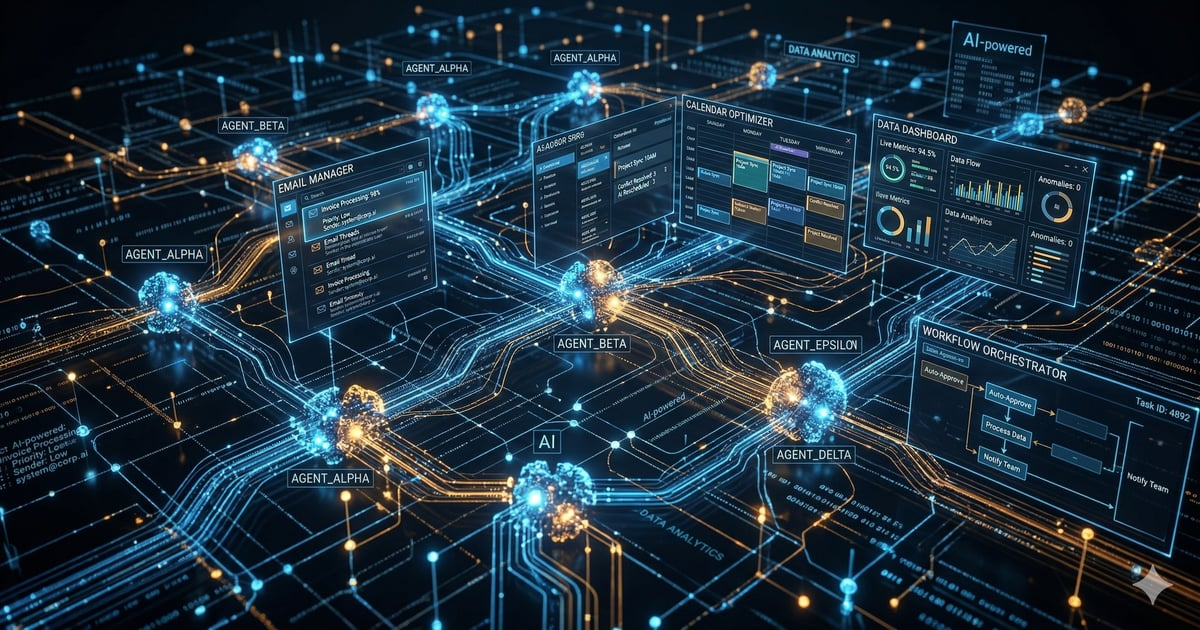
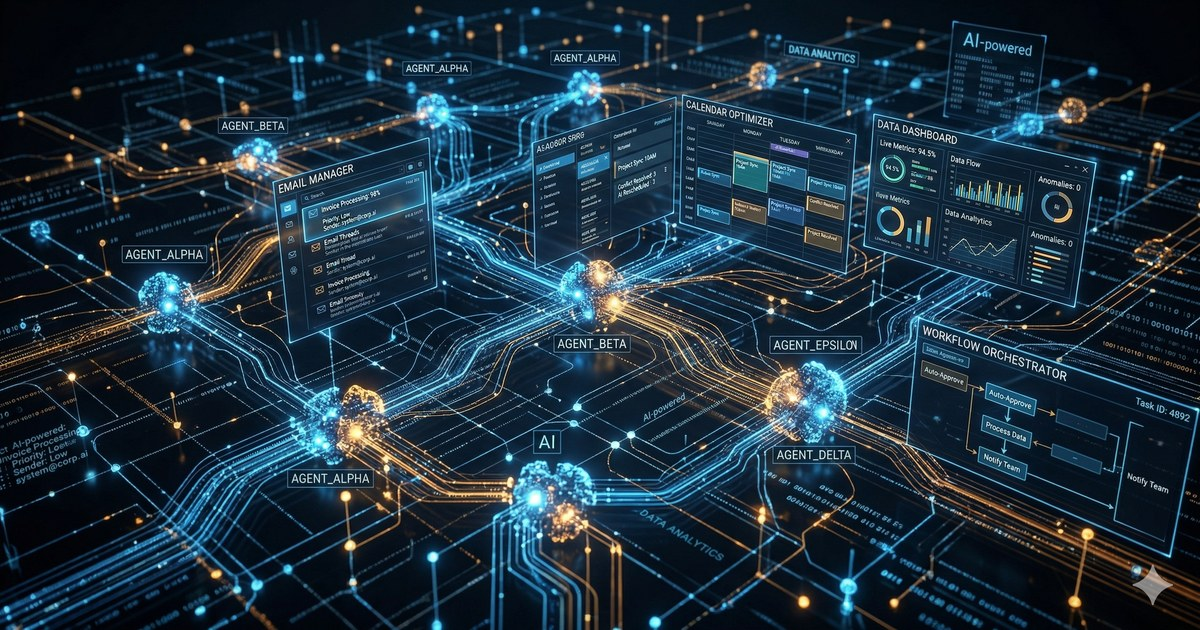
feat: add OG images artikel-09 & artikel-10, docs artikel-10
- artikel-09: agentic-ai-bekerja-sendiri-enterprise-indonesia.jpg/webp
- artikel-10: iot-manufaktur-indonesia-smart-factory-implementasi.jpg/webp
  Both converted from PNG source, cropped & resized to 1200x630px
- artikel-10-iot-manufaktur-indonesia.md documentation added

diff --git a/article/artikel-10-iot-manufaktur-indonesia.md b/article/artikel-10-iot-manufaktur-indonesia.md
@@ -1,0 +1,215 @@
+# Artikel 10 — Tech Leadership Series
+**Penulis:** Muhamad Randi Ritvaldi
+**Slug:** panduan-iot-manufaktur-indonesia-implementasi-roi
+**URL:** ritvaldi.my.id/blog/panduan-iot-manufaktur-indonesia-implementasi-roi
+**Kategori:** Tech Leadership
+**Estimasi Baca:** 12 menit
+
+---
+
+## Meta Data SEO
+
+- **Meta Title:** Panduan IoT untuk Manufaktur Indonesia: Dari Pilot Project hingga ROI Terukur | Randi Ritvaldi
+- **Meta Description:** Panduan lengkap implementasi IoT untuk manufaktur Indonesia: dari pilot project ke produksi penuh, cara menghitung ROI, dan 5 use case yang sudah terbukti di industri lokal.
+- **Primary Keyword:** `IoT manufaktur Indonesia` (~800–1.200 searches/bulan)
+- **Secondary Keywords:** Industry 4.0 Indonesia, smart factory Indonesia, predictive maintenance IoT, implementasi IoT pabrik, digital transformation manufaktur, ROI IoT manufaktur
+
+---
+
+## Hero Image
+
+**Nama file:** `iot-manufaktur-indonesia-smart-factory-implementasi.jpg`
+**Ukuran:** 1200 x 630px
+**Alt text:** `Visualisasi smart factory IoT di pabrik manufaktur Indonesia dengan sensor dan dashboard monitoring real-time`
+
+**Prompt (gunakan di Midjourney / DALL-E / Gemini):**
+```
+A cinematic wide-angle view inside a modern Indonesian 
+manufacturing facility at night — industrial machines on 
+the production floor with glowing IoT sensor nodes 
+attached to conveyor belts, motors, and pipes. 
+Holographic data overlays float above each machine showing 
+real-time metrics: temperature, vibration, energy output. 
+A central dashboard screen in the background displays 
+live production KPIs and predictive maintenance alerts. 
+The atmosphere is dark with warm amber and teal accent 
+lighting. Editorial tech-industrial photography style, 
+cinematic depth of field, 8k detail.
+1200x630 pixels, landscape format.
+```
+
+---
+
+## Struktur Artikel
+
+| Bagian | Heading | Kata (est.) |
+|--------|---------|-------------|
+| Opening | — | ~200 |
+| Konteks | Mengapa Manufaktur Indonesia Perlu Bergerak Sekarang | ~300 |
+| Use Cases | 5 Use Case IoT yang Sudah Terbukti di Manufaktur Indonesia | ~800 |
+| Implementasi | Kerangka Implementasi: Tiga Fase yang Benar | ~500 |
+| ROI | Menghitung ROI IoT dengan Jujur | ~350 |
+| Hambatan | Hambatan Nyata yang Perlu Diantisipasi | ~350 |
+| Penutup | Dari Mana Harus Mulai? | ~300 |
+| **Total** | | **~2.800 kata** |
+
+---
+
+## Isi Artikel
+
+# Panduan IoT untuk Manufaktur Indonesia: Dari Pilot Project hingga ROI Terukur
+
+Seorang plant manager dari perusahaan manufaktur FMCG di Jawa Tengah pernah bercerita kepada saya: ia sudah tahu sejak tiga bulan lalu bahwa salah satu mesin produksinya berpotensi bermasalah. Datanya ada — getaran di luar normal, suhu bearing yang merangkak naik. Tapi semua data itu tersimpan di log mesin yang hanya dibuka kalau ada insiden.
+
+Seminggu setelah percakapan kami, mesin itu berhenti di tengah shift malam. Total downtime: 14 jam. Biaya penggantian komponen dan kehilangan produksi malam itu saja lebih dari dua kali lipat anggaran yang ia butuhkan untuk memasang sensor IoT di seluruh lini produksinya.
+
+Ini bukan cerita yang langka. Ini pola yang berulang di ratusan fasilitas manufaktur Indonesia setiap tahun.
+
+Dan di sinilah saya ingin mulai — bukan dengan angka pasar atau proyeksi pertumbuhan, tapi dengan pertanyaan yang sesungguhnya relevan: **apa yang sebenarnya bisa IoT lakukan untuk manufaktur Indonesia hari ini, dan bagaimana cara memulainya dengan benar?**
+
+---
+
+## Mengapa Manufaktur Indonesia Perlu Bergerak Sekarang
+
+Indonesia memiliki sektor manufaktur yang menyumbang lebih dari 18% PDB nasional, dengan ribuan fasilitas produksi yang tersebar dari Aceh hingga Papua. Namun di balik skala yang besar itu, ada sebuah paradoks: sebagian besar fasilitas ini masih beroperasi dengan cara yang sama seperti 20 tahun lalu.
+
+Pemerintah melalui roadmap *Making Indonesia 4.0* sudah menetapkan target transformasi industri secara eksplisit. Lima sektor prioritas — makanan dan minuman, tekstil, otomotif, elektronik, dan kimia — didorong untuk mengadopsi teknologi Industri 4.0, termasuk IoT, sebagai tulang punggung operasional.
+
+Tapi ada tekanan yang lebih nyata dari kebijakan pemerintah: **kompetisi.**
+
+Manufacturer Vietnam, Thailand, dan Malaysia sudah bergerak lebih cepat dalam otomatisasi dan digitalisasi. Ketika biaya tenaga kerja di Indonesia terus meningkat, margin kompetitif yang selama ini menjadi andalan mulai tergerus. IoT bukan lagi pilihan untuk efisiensi — ia menjadi kebutuhan untuk tetap relevan.
+
+Mordor Intelligence memproyeksikan pasar IoT industri Indonesia tumbuh dengan CAGR 18,11% dalam lima tahun ke depan, dengan manufaktur sebagai segmen terbesar. Tapi angka proyeksi pasar tidak pernah menjadi alasan terbaik untuk bergerak. Alasan terbaiknya lebih sederhana: **setiap hari tanpa visibilitas data adalah hari dengan risiko yang tidak terkelola.**
+
+---
+
+## 5 Use Case IoT yang Sudah Terbukti di Manufaktur Indonesia
+
+Sebelum bicara tentang implementasi, penting untuk membangun gambaran yang konkret tentang apa yang bisa dan sudah dikerjakan. Berikut lima use case yang bukan hanya teoritis — tapi sudah berjalan di fasilitas industri Indonesia.
+
+### 1. Predictive Maintenance: Dari Reaktif ke Proaktif
+
+Ini adalah entry point paling umum dan paling mudah dijustifikasi secara finansial. Sensor getaran, suhu, dan arus dipasang pada mesin-mesin kritis — motor, pompa, kompresor, conveyor. Data yang masuk secara real-time dibandingkan dengan baseline normal dan tren historis.
+
+Hasilnya bukan sekadar alarm ketika ada masalah — tapi notifikasi *sebelum* masalah terjadi, lengkap dengan estimasi waktu kegagalan dan rekomendasi tindakan. Tim maintenance tidak lagi menunggu mesin berhenti; mereka menjadwalkan perawatan di jendela waktu yang paling tidak mengganggu produksi.
+
+Pengurangan downtime tak terencana sebesar 30–50% adalah angka yang konsisten saya lihat di berbagai implementasi. Untuk lini produksi dengan nilai output Rp 500 juta per hari, penghematan ini bisa sangat signifikan bahkan dari penghematan satu kejadian downtime saja.
+
+### 2. Energy Monitoring dan Optimasi Konsumsi
+
+Tagihan listrik adalah salah satu pos biaya terbesar di manufaktur — dan juga salah satu yang paling sedikit dikelola dengan data. Sebagian besar plant manager hanya tahu total konsumsi energi dari tagihan bulanan, tanpa visibilitas tentang mesin mana yang paling boros, di jam berapa konsumsi puncak terjadi, atau berapa persen energi yang terbuang saat mesin idle.
+
+Energy monitoring IoT memasang smart meter dan power analyzer di setiap subcircuit utama. Data ini membuka wawasan yang sering mengejutkan: mesin yang dibiarkan menyala saat tidak produksi, compressed air leak yang tidak terdeteksi, atau pola konsumsi yang bisa digeser dari jam tarif puncak ke jam tarif normal.
+
+Pengurangan konsumsi energi 15–25% hanya dari perubahan operasional — tanpa investasi infrastruktur baru — adalah hasil yang realistis dan sering tercapai dalam 3–6 bulan pertama implementasi.
+
+### 3. Kualitas Produksi Real-Time dengan Computer Vision
+
+Inspeksi kualitas manual adalah bottleneck yang paling jarang diakui. Ketika ada cacat produk, waktu antara produksi dan deteksi bisa mencapai berjam-jam — dan di sela waktu itu, ratusan hingga ribuan unit berpotensi sudah lewat dengan cacat yang sama.
+
+Kamera berkecepatan tinggi yang terintegrasi dengan model computer vision dapat mendeteksi cacat permukaan, kesalahan dimensi, atau ketidaksesuaian warna secara real-time — per unit, per detik. Mesin yang menghasilkan produk cacat langsung mendapat sinyal untuk berhenti atau menyesuaikan parameter sebelum satu batch penuh terbuang.
+
+### 4. Asset Tracking dan Manajemen Inventori
+
+Di fasilitas manufaktur berskala menengah ke atas, kehilangan produktivitas akibat "mencari" — mencari tool, mencari WIP, mencari forklift — lebih besar dari yang kebanyakan manajer sadari. Studi McKinsey menunjukkan rata-rata pekerja manufaktur menghabiskan 20–30% waktunya untuk aktivitas non-produktif, sebagian besar berkaitan dengan pencarian aset.
+
+RFID, barcode, dan GPS indoor berbasis BLE (Bluetooth Low Energy) memungkinkan visibilitas real-time atas lokasi dan status setiap aset — dari pallet bahan baku hingga mold cetakan yang nilainya ratusan juta. Ketika sesuatu hilang atau di luar tempat seharusnya, sistem memberi tahu secara otomatis.
+
+### 5. Monitoring Lingkungan dan Keselamatan Kerja
+
+K3 (Keselamatan dan Kesehatan Kerja) bukan hanya kewajiban regulasi — ia adalah indikator budaya operasional yang serius. Sensor gas, suhu, kelembaban, dan debu yang terdistribusi di seluruh area produksi memberikan pemantauan lingkungan kerja yang tidak mungkin dilakukan secara manual.
+
+Ketika sensor mendeteksi kadar CO₂ yang melewati ambang batas di ruang produksi tertutup, atau temperatur yang mendekati titik bahaya di area penyimpanan bahan kimia, notifikasi langsung dikirim ke tim yang bertanggung jawab — sebelum ada insiden.
+
+---
+
+## Kerangka Implementasi: Tiga Fase yang Benar
+
+Ini adalah bagian yang paling sering dilewati dalam percakapan tentang IoT manufaktur — dan paling sering menjadi penyebab kegagalan. Bukan karena teknologinya tidak bekerja, tapi karena pendekatannya salah.
+
+74% proyek IoT gagal. Penyebabnya konsisten: ekspektasi yang tidak terkelola, scope yang terlalu besar dari awal, dan tidak ada definisi sukses yang jelas. Pendekatan yang benar adalah bertahap dan terukur.
+
+### Fase 1: Pilot Terfokus (1–3 Bulan)
+
+Pilih **satu area, satu masalah, satu metrik sukses**. Bukan lima masalah sekaligus. Bukan transformasi seluruh pabrik. Satu.
+
+Kriteria pemilihan pilot yang baik: masalah yang sudah diketahui (bukan spekulatif), data awal yang bisa dibandingkan dengan kondisi setelah IoT, dan area yang supportif secara operasional — ada orang yang ownership-nya jelas dan mau terlibat aktif.
+
+Output dari fase ini bukan hanya data teknis — tapi *business case yang bisa dipresentasikan ke CFO*. Berapa biaya masalahnya sebelum? Berapa setelah? Berapa payback period-nya?
+
+### Fase 2: Validasi dan Standarisasi (3–6 Bulan)
+
+Setelah pilot berhasil, jangan langsung ekspansi ke seluruh pabrik. Fase kedua adalah memperkuat fondasi: standarisasi arsitektur teknis, membangun SOP penggunaan data untuk tim operasional, dan memastikan data yang masuk benar-benar digunakan untuk pengambilan keputusan — bukan hanya ditampilkan di dashboard yang tidak ada yang buka.
+
+### Fase 3: Skalabilitas (6 Bulan ke Atas)
+
+Dengan fondasi yang kuat — arsitektur yang proven, SOP yang berjalan, tim yang sudah terbiasa bekerja berbasis data — ekspansi ke area lain atau fasilitas lain menjadi jauh lebih mudah dan lebih cepat.
+
+---
+
+## Menghitung ROI IoT dengan Jujur
+
+ROI IoT manufaktur datang dari beberapa sumber yang bisa dihitung:
+
+**Pengurangan downtime tak terencana.** Hitung nilai produksi per jam × rata-rata durasi downtime per kejadian × frekuensi kejadian per tahun.
+
+**Penghematan energi.** Tagihan listrik bulan lalu × persentase penghematan yang realistis (10–20% untuk monitoring dasar, 20–35% untuk optimasi aktif).
+
+**Pengurangan produk cacat dan rework.** Persentase rejection rate saat ini × biaya per unit yang ditolak × volume produksi per bulan.
+
+**Efisiensi tenaga kerja.** Jam per hari yang sebelumnya digunakan untuk inspeksi manual, pencarian aset, atau reaksi terhadap insiden yang seharusnya bisa dicegah.
+
+> Waspada terhadap vendor yang menjanjikan angka ROI spesifik sebelum mereka memahami operasional Anda secara detail. ROI yang valid hanya bisa dihitung setelah ada baseline data yang jelas.
+
+---
+
+## Hambatan Nyata yang Perlu Diantisipasi
+
+**Infrastruktur konektivitas yang tidak merata.** Tidak semua area pabrik memiliki sinyal yang cukup kuat untuk komunikasi data real-time. Solusinya sudah ada — dari LoRaWAN untuk area luas dengan data kecil, hingga mesh network berbasis Zigbee atau Z-Wave untuk indoor.
+
+**Integrasi dengan sistem yang sudah ada.** Banyak mesin produksi di Indonesia berusia 10–20 tahun dan tidak memiliki interface digital sama sekali. Retrofit sensor adalah solusinya.
+
+**Kapabilitas SDM internal.** IoT bukan proyek yang selesai ketika pemasangan sensor selesai. Pelatihan dan change management adalah bagian dari investasi, bukan opsional.
+
+**Pemilihan vendor yang tepat.** Kemampuan dukungan purna jual, kecepatan respons terhadap masalah teknis, dan pemahaman vendor terhadap kebutuhan spesifik industri manufaktur Indonesia adalah pertimbangan yang sama pentingnya dengan spesifikasi teknis produk.
+
+---
+
+## Dari Mana Harus Mulai?
+
+Mulai dengan satu pertanyaan: **apa masalah operasional yang paling mahal dan paling berulang di fasilitas Anda saat ini?**
+
+Bukan masalah terbesar secara strategis. Bukan transformasi paling ambisius. Masalah yang paling mahal dan paling bisa diukur dampaknya.
+
+IoT manufaktur bukan tentang memiliki pabrik yang penuh sensor. Ini tentang memiliki **visibilitas yang cukup untuk membuat keputusan yang lebih baik** — dan membangun kapabilitas organisasi untuk terus meningkatkan visibilitas itu seiring waktu.
+
+---
+
+## Lampiran: Distribusi Konten
+
+### LinkedIn Caption
+
+Selamat pagi! ☀
+
+74% proyek IoT gagal.
+
+Bukan karena teknologinya tidak bekerja. Tapi karena pendekatannya salah.
+
+Seorang plant manager pernah bercerita: ia *tahu* sejak 3 bulan sebelumnya bahwa satu mesin produksinya akan bermasalah — datanya ada, tapi tersimpan di log yang tidak pernah dibuka. Seminggu setelah kita bicara, mesin itu berhenti di shift malam. 14 jam downtime. Biayanya? Dua kali lipat anggaran IoT untuk seluruh lini produksinya.
+
+Ini bukan cerita langka. Ini pola yang berulang setiap tahun.
+
+Di artikel terbaru saya, saya uraikan:
+
+— 5 use case IoT yang sudah terbukti di manufaktur Indonesia
+— Kerangka implementasi 3 fase (dari pilot terfokus hingga skalabilitas)
+— Cara menghitung ROI IoT secara jujur — termasuk peringatan tentang angka yang terlalu bagus dari vendor
+— Hambatan nyata yang perlu diantisipasi sebelum mulai
+
+Kalau Anda adalah plant manager, operations director, atau founder di sektor manufaktur — artikel ini ditulis untuk Anda.
+
+👉 ritvaldi.my.id/blog/panduan-iot-manufaktur-indonesia-implementasi-roi
+
+Di fasilitas Anda saat ini, masalah operasional apa yang paling mahal dan paling berulang? 👇
+
+#IoTIndonesia #Manufaktur #Industry40 #SmartFactory #DigitalTransformation #MakingIndonesia40 #RandiRitvaldi #Synapsis
